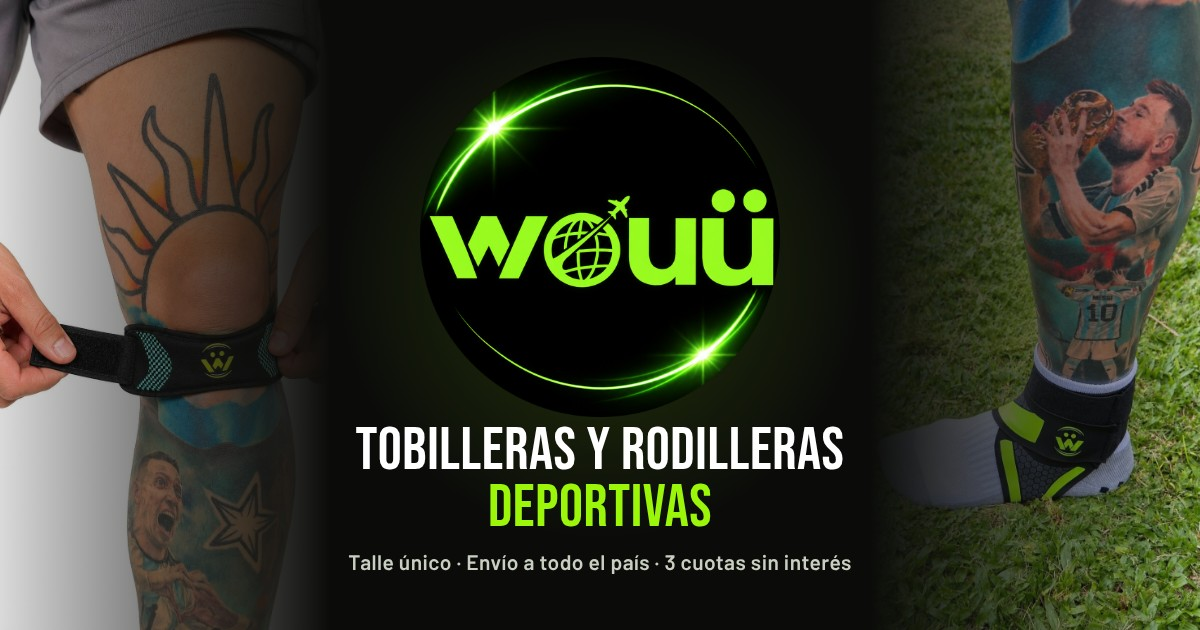
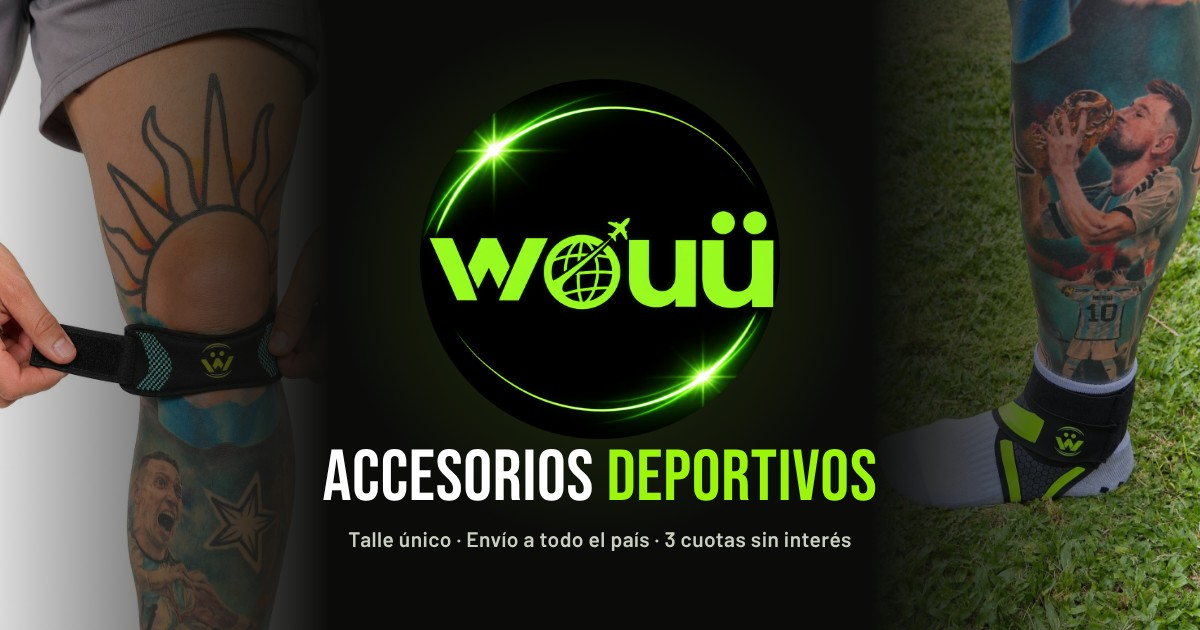
Home: video de la rodillera, título 'Accesorios deportivos' e imagen para compartir
Claude-Session: https://claude.ai/code/session_014wqdjrXttfztLPqNJBRBHz

Changed region(s): [[0.2467, 0.1206, 0.74, 0.9048], [0.5858, 0.2111, 0.6167, 0.2413]]

diff --git a/tienda/block3.html b/tienda/block3.html
@@ -20,7 +20,7 @@
 <section id="m-video" style="background: #0B0C0A; color: #FFFFFF; padding: 48px 16px;">
     <h2 style="margin: 0; font-family: 'Bebas Neue', Impact, sans-serif; font-weight: 400; font-size: 44px; line-height: 0.95;">Así se coloca<br><span style="color: #9BF609;">WOUÜFit</span></h2>
     <p style="margin: 8px 0 0; color: #D3DBC6; font-size: 16px;">Rápido, fácil y lista para acompañarte en cada movimiento.</p>
-    <video src="https://cdn.jsdelivr.net/gh/ChiqoGamer/Wou-@6f9d6a80fda4b560b2e6579f08b0549b982976fd/home/b39f447f86747b5962ee8560dcd5bf6a.mp4" poster="https://cdn.jsdelivr.net/gh/ChiqoGamer/Wou-@6f9d6a80fda4b560b2e6579f08b0549b982976fd/home/275bc5326733c61a38017675967b93b6.jpg" controls="" playsinline="" preload="metadata" aria-label="Video: cómo colocar la tobillera WOUÜFit" style="margin: 20px auto 0; width: 300px; aspect-ratio: 9 / 16; display: block; object-fit: cover; background: #1A1D16; border-radius: 12px;"></video>
+    <div style="margin-top: 20px; display: grid; grid-template-columns: 1fr 1fr; gap: 10px;"><div><span style="display: block; margin: 0 0 8px; font-weight: 700; font-size: 12px; letter-spacing: 0.14em; text-transform: uppercase; color: #9BF609; text-align: center;">Tobillera</span><video src="https://cdn.jsdelivr.net/gh/ChiqoGamer/Wou-@6f9d6a80fda4b560b2e6579f08b0549b982976fd/home/b39f447f86747b5962ee8560dcd5bf6a.mp4" poster="https://cdn.jsdelivr.net/gh/ChiqoGamer/Wou-@6f9d6a80fda4b560b2e6579f08b0549b982976fd/home/275bc5326733c61a38017675967b93b6.jpg" controls="" playsinline="" preload="metadata" aria-label="Video: cómo colocar la tobillera WOUÜFit" style="width: 100%; aspect-ratio: 9 / 16; display: block; object-fit: cover; background: #1A1D16; border-radius: 12px;"></video></div><div><span style="display: block; margin: 0 0 8px; font-weight: 700; font-size: 12px; letter-spacing: 0.14em; text-transform: uppercase; color: #9BF609; text-align: center;">Rodillera</span><video src="https://cdn.jsdelivr.net/gh/ChiqoGamer/Wou-@430c1cfde694f6b94ab86ad18147103d8f95510b/home/55b1abfc616514b1fb4af153d66300aa.mp4" poster="https://cdn.jsdelivr.net/gh/ChiqoGamer/Wou-@430c1cfde694f6b94ab86ad18147103d8f95510b/home/c475925bdb0a36392182077fa074cddf.jpg" controls="" playsinline="" preload="metadata" aria-label="Video: cómo colocar la rodillera WOUÜFit" style="width: 100%; aspect-ratio: 9 / 16; display: block; object-fit: cover; background: #1A1D16; border-radius: 12px;"></video></div></div>
   </section>
 <section style="background: #FFFFFF; padding: 48px 16px;">
   <div style="display: flex; flex-direction: column; gap: 36px;">
@@ -46,12 +46,12 @@
     </div>
   </div></section>
 <section id="d-video" style="background: #0B0C0A; color: #FFFFFF;">
-    <div style="max-width: 1100px; margin: 0 auto; padding: clamp(64px, 8vw, 104px) clamp(16px, 4vw, 40px); display: flex; flex-wrap: wrap; gap: clamp(32px, 6vw, 96px); align-items: center; justify-content: center;">
-      <div style="flex: 1 1 360px; max-width: 480px;">
+    <div style="max-width: 1100px; margin: 0 auto; padding: 40px clamp(16px, 4vw, 40px); display: flex; flex-wrap: wrap; gap: clamp(32px, 6vw, 80px); align-items: center; justify-content: center;">
+      <div style="flex: 1 1 320px; max-width: 420px;">
         <h2 style="margin: 0; font-family: 'Bebas Neue', Impact, sans-serif; font-weight: 400; font-size: clamp(52px, 5.4vw, 80px); line-height: 0.95;">Así se coloca<br><span style="color: #9BF609;">WOUÜFit</span></h2>
         <p style="margin: 16px 0 0; color: #D3DBC6; font-size: 19px;">Rápido, fácil y lista para acompañarte en cada movimiento.</p>
       </div>
-      <video src="https://cdn.jsdelivr.net/gh/ChiqoGamer/Wou-@6f9d6a80fda4b560b2e6579f08b0549b982976fd/home/b39f447f86747b5962ee8560dcd5bf6a.mp4" poster="https://cdn.jsdelivr.net/gh/ChiqoGamer/Wou-@6f9d6a80fda4b560b2e6579f08b0549b982976fd/home/275bc5326733c61a38017675967b93b6.jpg" controls="" playsinline="" preload="metadata" aria-label="Video: cómo colocar la tobillera WOUÜFit" style="flex: none; width: 360px; aspect-ratio: 9 / 16; display: block; object-fit: cover; background: #1A1D16; border-radius: 16px;"></video>
+      <div style="flex: none; display: flex; gap: 20px;"><div><span style="display: block; margin: 0 0 10px; font-weight: 700; font-size: 13px; letter-spacing: 0.14em; text-transform: uppercase; color: #9BF609; text-align: center;">Tobillera</span><video src="https://cdn.jsdelivr.net/gh/ChiqoGamer/Wou-@6f9d6a80fda4b560b2e6579f08b0549b982976fd/home/b39f447f86747b5962ee8560dcd5bf6a.mp4" poster="https://cdn.jsdelivr.net/gh/ChiqoGamer/Wou-@6f9d6a80fda4b560b2e6579f08b0549b982976fd/home/275bc5326733c61a38017675967b93b6.jpg" controls="" playsinline="" preload="metadata" aria-label="Video: cómo colocar la tobillera WOUÜFit" style="width: 290px; aspect-ratio: 9 / 16; display: block; object-fit: cover; background: #1A1D16; border-radius: 16px;"></video></div><div><span style="display: block; margin: 0 0 10px; font-weight: 700; font-size: 13px; letter-spacing: 0.14em; text-transform: uppercase; color: #9BF609; text-align: center;">Rodillera</span><video src="https://cdn.jsdelivr.net/gh/ChiqoGamer/Wou-@430c1cfde694f6b94ab86ad18147103d8f95510b/home/55b1abfc616514b1fb4af153d66300aa.mp4" poster="https://cdn.jsdelivr.net/gh/ChiqoGamer/Wou-@430c1cfde694f6b94ab86ad18147103d8f95510b/home/c475925bdb0a36392182077fa074cddf.jpg" controls="" playsinline="" preload="metadata" aria-label="Video: cómo colocar la rodillera WOUÜFit" style="width: 290px; aspect-ratio: 9 / 16; display: block; object-fit: cover; background: #1A1D16; border-radius: 16px;"></video></div></div>
     </div>
   </section>
 <section style="background: #FFFFFF;">

diff --git a/tienda/block0.html b/tienda/block0.html
@@ -1,4 +1,4 @@
-<script>(function(){if(location.pathname!=="/")return;var t="wouü | Tobilleras y rodilleras deportivas WOUÜFit";document.title=t;["og:title","twitter:title"].forEach(function(p){var m=document.querySelector('meta[property="'+p+'"],meta[name="'+p+'"]');if(m)m.setAttribute("content",t)})})();</script>
+<script>(function(){if(location.pathname!=="/")return;var t="wouü | Accesorios deportivos";document.title=t;["og:title","twitter:title"].forEach(function(p){var m=document.querySelector('meta[property="'+p+'"],meta[name="'+p+'"]');if(m)m.setAttribute("content",t)})})();</script>
 <script>(function(){var m=document.querySelector('meta[name="theme-color"]');if(!m){m=document.createElement('meta');m.name='theme-color';document.head.appendChild(m)}m.content='#0B0C0A'})();</script>
 <link rel="preconnect" href="https://fonts.googleapis.com"><link href="https://fonts.googleapis.com/css2?family=Bebas+Neue&family=Barlow:wght@400;500;600;700&display=swap" rel="stylesheet">
 <style>
